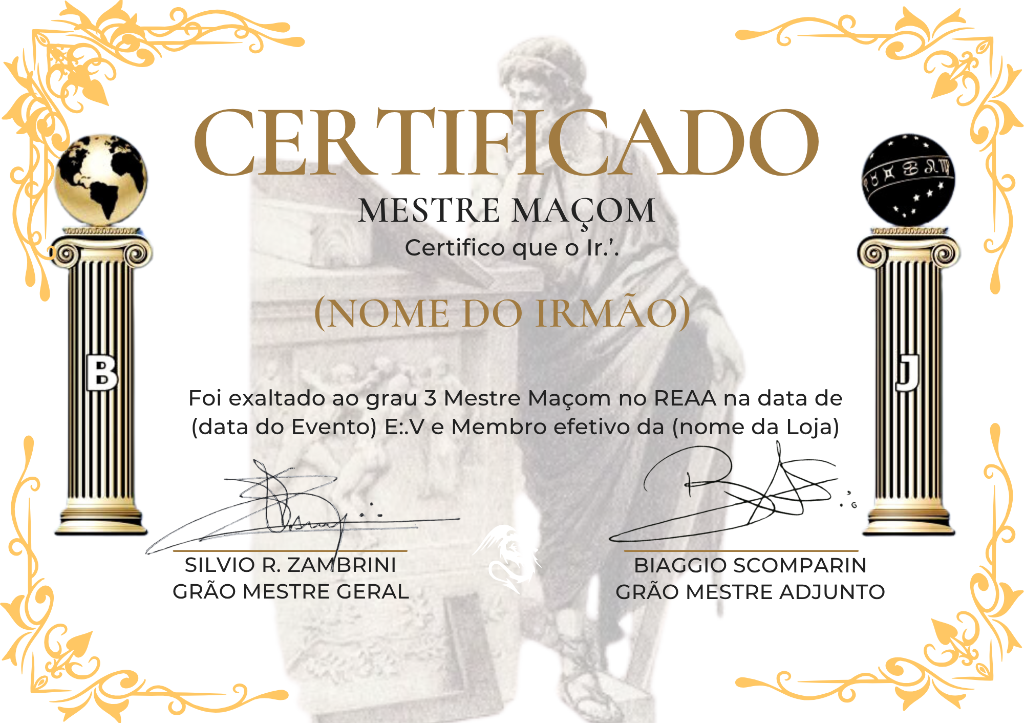
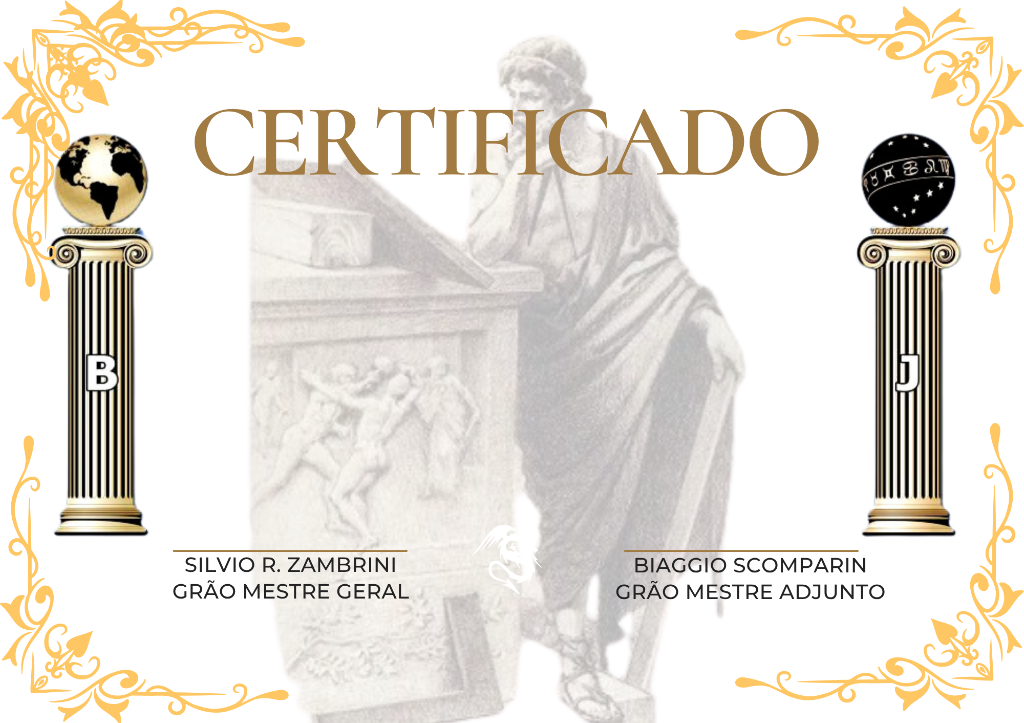
feat(certificates): use clean background template with 100% transparent text overlays over watermark

diff --git a/src/pages/admin/Certificates.tsx b/src/pages/admin/Certificates.tsx
@@ -16,9 +16,8 @@ import {
   Sparkles, 
   QrCode as QrIcon, 
   Search, 
-  Check, 
-  Sliders,
-  CheckCircle2
+  CheckCircle2,
+  Sliders
 } from 'lucide-react';
 import { QRCodeSVG } from 'qrcode.react';
 import html2canvas from 'html2canvas';
@@ -41,11 +40,13 @@ export default function Certificates() {
   const { toast } = useToast();
   const certificateRef = useRef<HTMLDivElement>(null);
 
-  // Form state - Dynamic values replacing (NOME DO IRMÃO), (data do Evento), (nome da Loja)
+  // Form state - Dynamic values
   const [selectedMemberId, setSelectedMemberId] = useState<string>('');
+  const [degreeType, setDegreeType] = useState<'mestre' | 'companheiro' | 'aprendiz'>('mestre');
   const [memberName, setMemberName] = useState<string>('CRISTIANO RODRIGUES RIBEIRO');
   const [eventDate, setEventDate] = useState<string>('31/08/2026');
   const [lodgeName, setLodgeName] = useState<string>('A.R.L.S Lealdade e Justiça Nº 001');
+  const [ritoText, setRitoText] = useState<string>('REAA');
 
   // Controls
   const [showQRCode, setShowQRCode] = useState<boolean>(true);
@@ -84,10 +85,20 @@ export default function Certificates() {
   const handleSelectMember = (member: Profile) => {
     setSelectedMemberId(member.id);
 
-    // 1. Automatic Name (Uppercase, no parentheses)
+    // 1. Automatic Name (Uppercase)
     setMemberName(member.full_name.toUpperCase());
 
-    // 2. Automatic Date (Formatted DD/MM/AAAA, no parentheses)
+    // 2. Automatic Degree Detection
+    const currentDegree = (member.degree || '').toLowerCase();
+    if (currentDegree.includes('mestre')) {
+      setDegreeType('mestre');
+    } else if (currentDegree.includes('companheiro')) {
+      setDegreeType('companheiro');
+    } else {
+      setDegreeType('aprendiz');
+    }
+
+    // 3. Automatic Date (Formatted DD/MM/AAAA)
     if (member.initiation_date) {
       try {
         const dateObj = new Date(member.initiation_date);
@@ -102,7 +113,7 @@ export default function Certificates() {
       setEventDate('31/08/2026');
     }
 
-    // 3. Automatic Lodge Name (Formatted A.R.L.S ..., no parentheses)
+    // 4. Automatic Lodge Name (Formatted A.R.L.S ...)
     if (member.lodges) {
       setLodgeName(`A.R.L.S ${member.lodges.name} Nº ${member.lodges.number || '001'}`);
     } else {
@@ -134,14 +145,14 @@ export default function Certificates() {
       });
 
       const link = document.createElement('a');
-      const filename = `Certificado_Mestre_${memberName.replace(/\s+/g, '_')}.png`;
+      const filename = `Certificado_${degreeType.toUpperCase()}_${memberName.replace(/\s+/g, '_')}.png`;
       link.download = filename;
       link.href = canvas.toDataURL('image/png', 1.0);
       link.click();
 
       toast({
         title: 'Certificado baixado!',
-        description: 'A imagem HD foi salva com sucesso.',
+        description: 'A imagem HD foi salva com sucesso sem fundo branco.',
       });
     } catch (error: any) {
       console.error('Error exporting PNG:', error);
@@ -182,7 +193,7 @@ export default function Certificates() {
       });
 
       pdf.addImage(imgData, 'PNG', 0, 0, 297, 210);
-      const filename = `Certificado_Mestre_${memberName.replace(/\s+/g, '_')}.pdf`;
+      const filename = `Certificado_${degreeType.toUpperCase()}_${memberName.replace(/\s+/g, '_')}.pdf`;
       pdf.save(filename);
 
       toast({
@@ -203,6 +214,11 @@ export default function Certificates() {
 
   const validationUrl = `${window.location.origin}/validar/${selectedMemberId || 'cert'}`;
 
+  // Grau dynamic texts
+  const grauTitle = degreeType === 'mestre' ? 'MESTRE MAÇOM' : degreeType === 'companheiro' ? 'COMPANHEIRO MAÇOM' : 'APRENDIZ MAÇOM';
+  const grauAction = degreeType === 'mestre' ? 'exaltado' : degreeType === 'companheiro' ? 'elevado' : 'iniciado';
+  const grauNumber = degreeType === 'mestre' ? 'grau 3 Mestre Maçom' : degreeType === 'companheiro' ? 'grau 2 Companheiro Maçom' : 'grau 1 Aprendiz Maçom';
+
   return (
     <AppLayout>
       <div className="container mx-auto py-6 space-y-6 max-w-7xl px-3 sm:px-6">
@@ -213,9 +229,9 @@ export default function Certificates() {
               <Award className="h-7 w-7" />
             </div>
             <div>
-              <h1 className="text-2xl font-bold tracking-tight">Gerador de Certificados Mestre Maçom</h1>
+              <h1 className="text-2xl font-bold tracking-tight">Gerador de Certificados Maçônicos</h1>
               <p className="text-sm text-muted-foreground">
-                Selecione o irmão cadastrado para preenchimento automático instantâneo (sem parênteses)
+                Emissão automática com fundo 100% transparente sobre o modelo oficial GOIB / SOGLIA
               </p>
             </div>
           </div>
@@ -249,10 +265,10 @@ export default function Certificates() {
               <CardHeader className="pb-3">
                 <CardTitle className="text-base flex items-center gap-2">
                   <User className="h-4 w-4 text-primary" />
-                  1. Buscar Irmão Cadastrado
+                  1. Selecionar Irmão Cadastrado
                 </CardTitle>
                 <CardDescription>
-                  Clique no nome do membro para preencher todos os dados automaticamente
+                  Clique no nome do irmão para carregar os dados instantaneamente
                 </CardDescription>
               </CardHeader>
               <CardContent className="space-y-3">
@@ -301,22 +317,53 @@ export default function Certificates() {
               </CardContent>
             </Card>
 
-            {/* Dynamic Fields Inspector */}
+            {/* Customization Inspector */}
             <Card className="border-border">
               <CardHeader className="pb-3">
                 <CardTitle className="text-base flex items-center gap-2">
                   <Sliders className="h-4 w-4 text-primary" />
-                  2. Campos Substituídos no Modelo
+                  2. Dados do Certificado
                 </CardTitle>
                 <CardDescription>
-                  Estes valores substituem as áreas de (parênteses) no modelo oficial:
+                  Ajustes finos dos textos sobrepostos
                 </CardDescription>
               </CardHeader>
               <CardContent className="space-y-3 text-xs">
+                {/* Degree Selector */}
+                <div className="space-y-1">
+                  <Label className="text-xs font-medium">Grau do Certificado</Label>
+                  <div className="grid grid-cols-3 gap-1">
+                    <Button
+                      size="sm"
+                      variant={degreeType === 'mestre' ? 'default' : 'outline'}
+                      className={`h-8 text-xs ${degreeType === 'mestre' ? 'bg-amber-600' : ''}`}
+                      onClick={() => setDegreeType('mestre')}
+                    >
+                      Mestre
+                    </Button>
+                    <Button
+                      size="sm"
+                      variant={degreeType === 'companheiro' ? 'default' : 'outline'}
+                      className="h-8 text-xs"
+                      onClick={() => setDegreeType('companheiro')}
+                    >
+                      Companheiro
+                    </Button>
+                    <Button
+                      size="sm"
+                      variant={degreeType === 'aprendiz' ? 'default' : 'outline'}
+                      className="h-8 text-xs"
+                      onClick={() => setDegreeType('aprendiz')}
+                    >
+                      Aprendiz
+                    </Button>
+                  </div>
+                </div>
+
                 {/* Field 1: Nome do Irmão */}
                 <div className="space-y-1">
                   <Label className="text-xs font-semibold text-amber-800 dark:text-amber-300">
-                    Substitui (NOME DO IRMÃO)
+                    Nome do Irmão (Caixa Alta)
                   </Label>
                   <Input
                     value={memberName}
@@ -326,27 +373,30 @@ export default function Certificates() {
                   />
                 </div>
 
-                {/* Field 2: Data do Evento */}
-                <div className="space-y-1">
-                  <Label className="text-xs font-semibold text-foreground">
-                    Substitui (data do Evento)
-                  </Label>
-                  <Input
-                    value={eventDate}
-                    onChange={(e) => setEventDate(e.target.value)}
-                    placeholder="31/08/2026"
-                  />
+                {/* Field 2: Rito & Data */}
+                <div className="grid grid-cols-2 gap-2">
+                  <div className="space-y-1">
+                    <Label className="text-xs font-medium">Rito</Label>
+                    <Input
+                      value={ritoText}
+                      onChange={(e) => setRitoText(e.target.value)}
+                    />
+                  </div>
+                  <div className="space-y-1">
+                    <Label className="text-xs font-medium">Data do Evento</Label>
+                    <Input
+                      value={eventDate}
+                      onChange={(e) => setEventDate(e.target.value)}
+                    />
+                  </div>
                 </div>
 
                 {/* Field 3: Nome da Loja */}
                 <div className="space-y-1">
-                  <Label className="text-xs font-semibold text-foreground">
-                    Substitui (nome da Loja)
-                  </Label>
+                  <Label className="text-xs font-medium">Nome da Loja e Número</Label>
                   <Input
                     value={lodgeName}
                     onChange={(e) => setLodgeName(e.target.value)}
-                    placeholder="A.R.L.S Lealdade e Justiça Nº 001"
                   />
                 </div>
 
@@ -373,9 +423,9 @@ export default function Certificates() {
               <CardHeader className="py-3 px-4 bg-muted/40 border-b flex flex-row items-center justify-between">
                 <div className="flex items-center gap-2">
                   <Sparkles className="h-4 w-4 text-amber-500" />
-                  <CardTitle className="text-sm font-semibold">Pré-visualização do Certificado Final</CardTitle>
+                  <CardTitle className="text-sm font-semibold">Pré-visualização em Fundo Transparente</CardTitle>
                 </div>
-                <span className="text-[11px] text-muted-foreground font-mono">Alta Definição • Sem Parênteses</span>
+                <span className="text-[11px] text-muted-foreground font-mono">Modelo Limpo HD • Sem Caixas Brancas</span>
               </CardHeader>
 
               <CardContent className="p-3 sm:p-6 flex items-center justify-center overflow-x-auto">
@@ -388,55 +438,64 @@ export default function Certificates() {
                       fontFamily: "'Playfair Display', 'Cinzel', 'Times New Roman', Georgia, serif",
                     }}
                   >
-                    {/* Background Official Template Image with Signatures */}
+                    {/* Clean Background Template Image */}
                     <img
                       src="/certificate_mestre_template.png"
-                      alt="Certificado Mestre Maçom Modelo Base"
+                      alt="Certificado Modelo Limpo"
                       className="absolute inset-0 w-full h-full object-fill pointer-events-none"
                     />
 
-                    {/* OVERLAY DYNAMIC FIELD 1: NOME DO IRMÃO (Replaces (NOME DO IRMÃO)) */}
-                    <div 
-                      className="absolute left-1/2 -translate-x-1/2 top-[39.5%] w-[75%] text-center z-10 flex items-center justify-center"
-                    >
-                      {/* Masking Patch Box to erase underlying placeholder text */}
-                      <div className="absolute inset-0 bg-[#fefdfb] shadow-sm rounded-md opacity-98" />
+                    {/* DYNAMIC TRANSPARENT TEXT OVERLAYS */}
+                    <div className="absolute inset-0 flex flex-col justify-between p-[6%] text-center z-10">
                       
-                      <h2 
-                        className="relative z-10 text-[3.2vw] lg:text-[32px] font-bold tracking-[0.08em] px-4 py-1 leading-none uppercase"
-                        style={{ 
-                          color: '#b38738',
-                          fontFamily: "'Times New Roman', Times, Georgia, serif"
-                        }}
-                      >
-                        {memberName || 'CRISTIANO RODRIGUES RIBEIRO'}
-                      </h2>
-                    </div>
-
-                    {/* OVERLAY DYNAMIC FIELD 2 & 3: Line 2 (Replaces (data do Evento) and (nome da Loja)) */}
-                    <div 
-                      className="absolute left-1/2 -translate-x-1/2 top-[56.8%] w-[82%] text-center z-10 flex items-center justify-center"
-                    >
-                      {/* Masking Patch Box to erase underlying placeholder line */}
-                      <div className="absolute inset-0 bg-[#fefdfb] shadow-sm rounded-md opacity-98" />
-
-                      <p className="relative z-10 text-[1.4vw] lg:text-[14px] font-sans text-slate-800 leading-snug py-1 font-normal tracking-tight">
-                        <span className="font-semibold text-slate-900">{eventDate || '31/08/2026'}</span> E.:V e Membro efetivo da{' '}
-                        <span className="font-semibold text-slate-900">{lodgeName || 'A.R.L.S Lealdade e Justiça Nº 001'}</span>
-                      </p>
-                    </div>
-
-                    {/* Optional Public QR Code Stamp at Bottom Center */}
-                    {showQRCode && (
-                      <div className="absolute left-1/2 -translate-x-1/2 bottom-[3%] z-20 flex flex-col items-center">
-                        <div className="p-1 bg-white rounded border border-amber-500/40 shadow-sm">
-                          <QRCodeSVG value={validationUrl} size={38} level="M" />
-                        </div>
-                        <span className="text-[7.5px] font-mono text-slate-500 mt-0.5 uppercase tracking-tighter bg-white/80 px-1 rounded">
-                          Autenticidade GOIB
-                        </span>
+                      {/* Sub-header Block: MESTRE MAÇOM & Certifico... */}
+                      <div className="pt-[23.5%] space-y-1">
+                        <p 
+                          className="text-[1.85vw] lg:text-[18.5px] tracking-[0.25em] font-serif text-slate-800 uppercase font-semibold leading-none"
+                          style={{ fontFamily: "'Cinzel', 'Times New Roman', Georgia, serif" }}
+                        >
+                          {grauTitle}
+                        </p>
+                        <p className="text-[1.4vw] lg:text-[14px] font-sans text-slate-600 italic tracking-wide pt-1">
+                          Certifico que o Ir.'.
+                        </p>
                       </div>
-                    )}
+
+                      {/* Member Name Block (100% Transparent Background over Watermark) */}
+                      <div className="my-auto py-[1%]">
+                        <h2 
+                          className="text-[3.2vw] lg:text-[32px] font-bold tracking-[0.08em] px-4 leading-tight uppercase bg-transparent"
+                          style={{ 
+                            color: '#b38738',
+                            fontFamily: "'Times New Roman', Times, Georgia, serif",
+                            textShadow: '0.3px 0.3px 0.5px rgba(0,0,0,0.1)'
+                          }}
+                        >
+                          {memberName || 'NOME DO IRMÃO'}
+                        </h2>
+                      </div>
+
+                      {/* Body Text Block (100% Transparent Background over Watermark) */}
+                      <div className="pb-[18%]">
+                        <p className="text-[1.45vw] lg:text-[14.5px] font-sans text-slate-800 max-w-[85%] mx-auto leading-relaxed font-normal bg-transparent">
+                          Foi {grauAction} ao {grauNumber} no {ritoText} na data de{' '}
+                          <span className="font-semibold text-slate-950">{eventDate}</span> E.:V e Membro efetivo da{' '}
+                          <span className="font-semibold text-slate-950">{lodgeName}</span>
+                        </p>
+                      </div>
+
+                      {/* Optional Public QR Code Stamp at Bottom Center */}
+                      {showQRCode && (
+                        <div className="absolute left-1/2 -translate-x-1/2 bottom-[3%] z-20 flex flex-col items-center">
+                          <div className="p-1 bg-white rounded border border-amber-500/40 shadow-sm">
+                            <QRCodeSVG value={validationUrl} size={38} level="M" />
+                          </div>
+                          <span className="text-[7.5px] font-mono text-slate-500 mt-0.5 uppercase tracking-tighter bg-white/80 px-1 rounded">
+                            Autenticidade GOIB
+                          </span>
+                        </div>
+                      )}
+                    </div>
                   </div>
                 </div>
               </CardContent>
@@ -447,7 +506,7 @@ export default function Certificates() {
               <div className="flex items-center gap-2 text-xs text-amber-900 dark:text-amber-200">
                 <Sparkles className="h-4 w-4 shrink-0 text-amber-600" />
                 <span>
-                  O certificado será exportado em alta definição com as assinaturas oficiais do Grão-Mestrado.
+                  O certificado será exportado em alta resolução sem blocos brancos, integrado à marca d'água original.
                 </span>
               </div>
               <div className="flex items-center gap-2 w-full sm:w-auto shrink-0">
